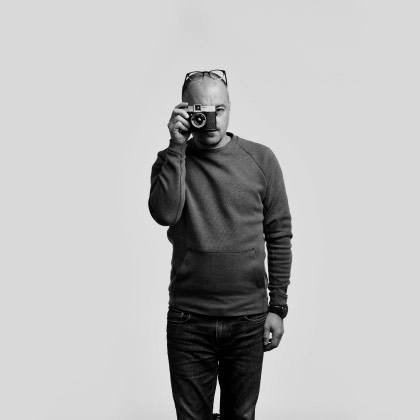
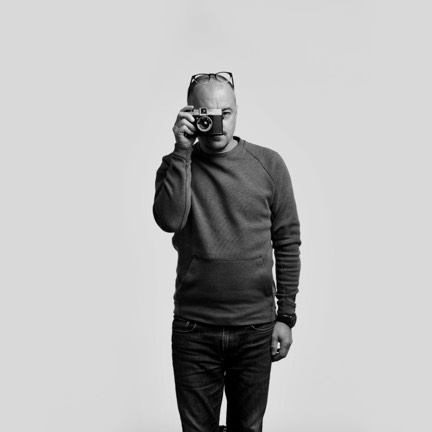
Preview: photos from the Figma originals, without baked-in corners

diff --git a/preview/photos.js b/preview/photos.js
@@ -1,6 +1,6 @@
 /* The centred photo of Craig. Each click (or tap) shows the next photo, instantly;
    after the last one it goes back to the first. To add a photo, put it in
-   /assets/craig-photos/ (square, 432 × 432) and add a line to this list. */
+   /assets/craig-photos/ (square, 432 × 432, no corners: the frame rounds them) and add a line to this list. */
 const PHOTOS = [
   { src: "/assets/craig-photos/craig-1.jpg", alt: "Craig taking a mirror selfie." },
   { src: "/assets/craig-photos/craig-2.jpg", alt: "Craig taking a mirror selfie." },
